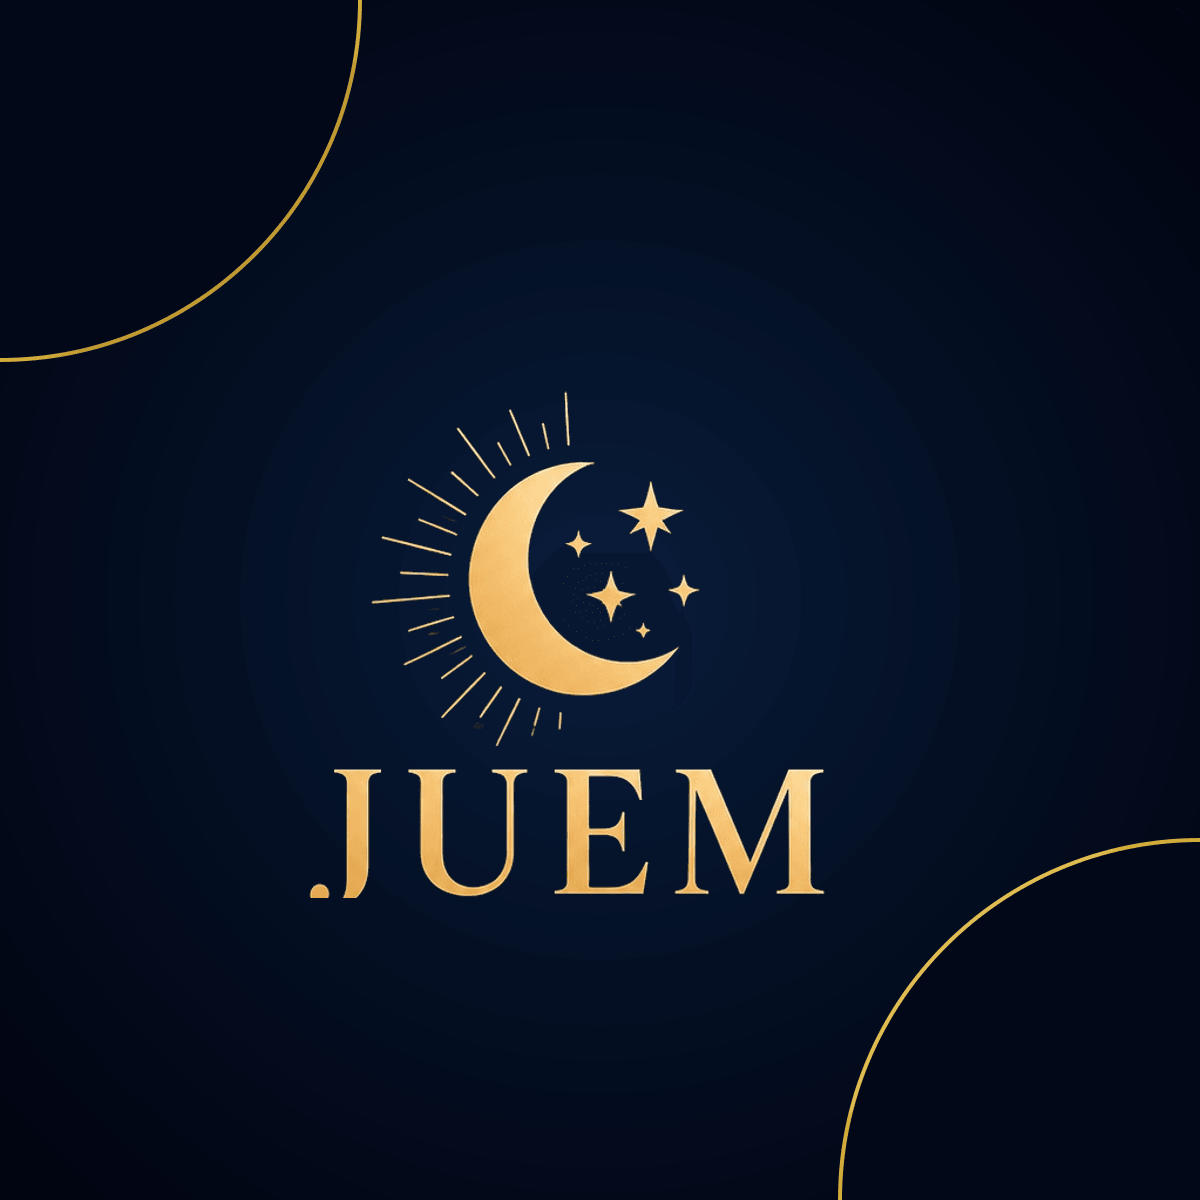
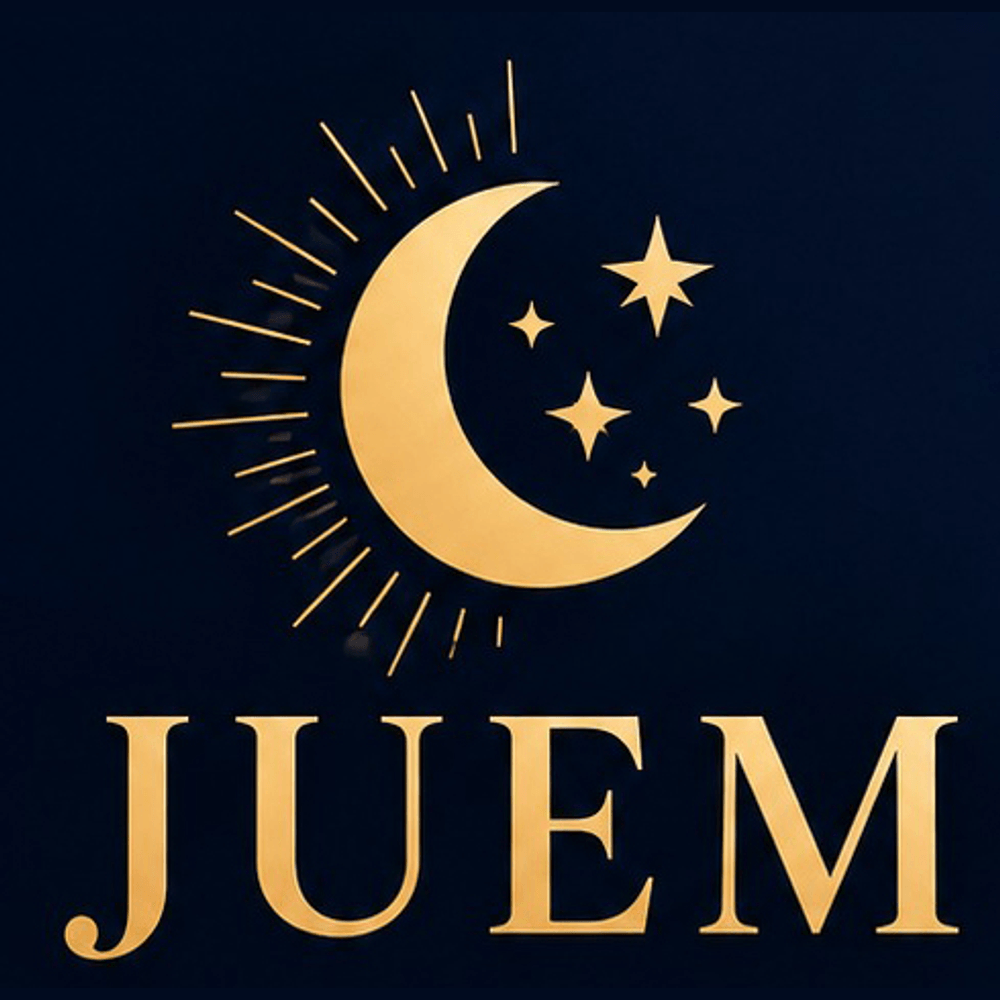
Add files via upload

diff --git a/index.html b/index.html
@@ -81,20 +81,20 @@
     <meta property="og:site_name" content="Juem Mvd" />
     <meta property="og:title" content="Juem Mvd | Ropa de Temporada, Abrigos Premium y Accesorios" id="og-title" />
     <meta property="og:description" content="Descubrí en Juem Mvd la mejor indumentaria de temporada, abrigos térmicos, accesorios de invierno y proyectos 3D con envíos a todo el país." id="og-description" />
-    <meta property="og:image" content="https://juem.com.uy/og-banner.png" id="og-image" />
-    <meta property="og:image:secure_url" content="https://juem.com.uy/og-banner.png" />
+    <meta property="og:image" content="https://juem.com.uy/og-celestial.png?v=3" id="og-image" />
+    <meta property="og:image:secure_url" content="https://juem.com.uy/og-celestial.png?v=3" />
     <meta property="og:image:type" content="image/png" />
     <meta property="og:image:width" content="1200" />
     <meta property="og:image:height" content="630" />
-    <meta property="og:image:alt" content="Juem Mvd - Indumentaria de Temporada y Accesorios en Uruguay" />
+    <meta property="og:image:alt" content="Juem Mvd - Celestial Moon & JUEM Logo" />
     <meta property="og:url" content="https://juem.com.uy/" id="og-url" />
 
     <!-- Twitter Card -->
     <meta name="twitter:card" content="summary_large_image" />
     <meta name="twitter:title" content="Juem Mvd | Ropa de Temporada, Abrigos Premium y Accesorios" id="twitter-title" />
     <meta name="twitter:description" content="Descubrí en Juem Mvd la mejor indumentaria de temporada, abrigos térmicos, accesorios de invierno y proyectos 3D con envíos a todo el país." id="twitter-description" />
-    <meta name="twitter:image" content="https://juem.com.uy/og-banner.png" id="twitter-image" />
-    <meta name="twitter:image:alt" content="Juem Mvd - Tienda Oficial Uruguay" />
+    <meta name="twitter:image" content="https://juem.com.uy/og-celestial.png?v=3" id="twitter-image" />
+    <meta name="twitter:image:alt" content="Juem Mvd - Celestial Moon & JUEM Logo" />
     
     <!-- JSON-LD Structured Data Schema for Local Business (Uruguay) -->
     <script type="application/ld+json" id="seo-schema">

diff --git a/server.ts b/server.ts
@@ -12167,12 +12167,14 @@ No añadas formato markdown (como \`\`\`json) ni texto explicativo. Solo el JSON
     const settings: any = state.settings || {};
     let title = settings.siteTitle || "Juem Mvd";
     let description = settings.siteSubtitle || "Indumentaria de temporada, abrigos térmicos y accesorios con envío express a todo Uruguay.";
-    const defaultOgBanner = `${baseUrl}/og-banner.png`;
+    const defaultOgBanner = `${baseUrl}/og-celestial.png?v=3`;
     let imgUrl = settings.ogImageUrl || defaultOgBanner;
     if (imgUrl.startsWith("/")) {
       imgUrl = `${baseUrl}${imgUrl}`;
     }
+    const rawReqUrl = req.originalUrl || req.url || pathUrl;
     let canonicalUrl = pathUrl === "/" ? `${baseUrl}/` : `${baseUrl}${pathUrl}`;
+    let ogUrl = `${baseUrl}${rawReqUrl}`;
     let schemaJson = "";
     let preRenderedBody = "";
 
@@ -12592,7 +12594,7 @@ No añadas formato markdown (como \`\`\`json) ni texto explicativo. Solo el JSON
     );
     output = output.replace(
       /<meta[^>]*id="og-url"[^>]*\/?>/gi, 
-      `<meta property="og:url" content="${canonicalUrl}" id="og-url" />`
+      `<meta property="og:url" content="${ogUrl}" id="og-url" />`
     );
 
     // Twitter-spec
